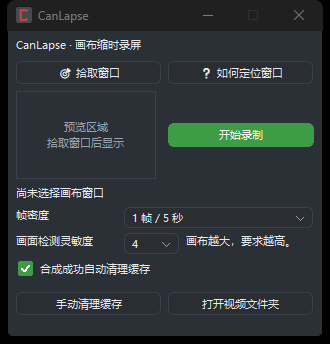
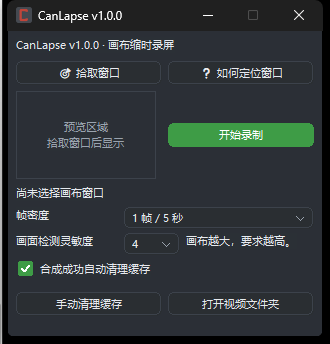
feat(ui): 程序名后带版本号（窗口标题 + 界面首行）
- 新增 app_title()：format!("CanLapse v{}", env!("CARGO_PKG_VERSION"))
- 窗口标题 CanLapse → CanLapse v1.0.0；界面首行 → CanLapse v1.0.0 · 画布缩时录屏
- 单实例激活时的兜底标题也用同一函数（否则第二次启动找不到窗口）

验证：窗口标题读取为 CanLapse v1.0.0；截图 docs/evidence/ui-main.png；
cargo test 31 项全过；release 打包 doctor 退出 0，SHA256 37BEF1F1…C6FE77F

diff --git a/src/ui/mod.rs b/src/ui/mod.rs
@@ -511,7 +511,7 @@ impl App {
         let f = self.font;
         let ws = WS_CHILD | WS_VISIBLE;
         let mut c = Ctl::default();
-        c.title = mk(h, "Static", "CanLapse · 画布缩时录屏", ws, 0, f);
+        c.title = mk(h, "Static", &format!("{} · 画布缩时录屏", app_title()), ws, 0, f);
         c.btn_pick = mk(h, "Button", "🎯 拾取窗口", ws, ID_PICK, f);
         c.btn_help = mk(h, "Button", "❓ 如何定位窗口", ws, ID_HELP, f);
         c.status = mk(h, "Static", "", ws, ID_STATUS, f);
@@ -1454,13 +1454,18 @@ fn looks_like_panel(info: &win::WindowInfo) -> bool {
     main_frame || ratio > 3.2 || ratio < 0.35
 }
 
+/// 窗口标题 / 界面标题统一用这个名字（带版本号）
+fn app_title() -> String {
+    format!("CanLapse v{}", env!("CARGO_PKG_VERSION"))
+}
+
 /// 把已经在运行的 CanLapse 主窗口叫到前台（第二个实例只做这件事）
 unsafe fn activate_existing() -> bool {
     let c = cls(MAIN_CLASS);
     // 先按类名找；个别系统上 FindWindow 的 title=NULL 不匹配，再退回按标题找
     let mut h = windows_sys::Win32::UI::WindowsAndMessaging::FindWindowW(c.as_ptr(), std::ptr::null());
     if h.is_null() {
-        let t = win::wide("CanLapse");
+        let t = win::wide(&app_title());
         h = windows_sys::Win32::UI::WindowsAndMessaging::FindWindowW(c.as_ptr(), t.as_ptr());
     }
     if h.is_null() {
@@ -1627,7 +1632,8 @@ pub fn run(initial_target: Option<isize>) -> i32 {
         }
 
         let c = cls(MAIN_CLASS);
-        let t = win::wide("CanLapse");
+        // 窗口标题带版本号（v1.0.0 增补需求）
+        let t = win::wide(&app_title());
         let hwnd = CreateWindowExW(
             0,
             c.as_ptr(),

diff --git a/完工日志.md b/完工日志.md
@@ -13,6 +13,7 @@
 | 2026-10-17 20:45 | **默认导出目录改到「程序所在目录\output」** | 启动时自动创建 `<exe 目录>\output`，输出框默认填 `<exe 目录>\output\timelapse.mp4`；程序目录不可写（如装在 Program Files）时自动退回 `%LOCALAPPDATA%\CanLapse\output`。文件名保持 `timelapse.mp4`（同目录重复导出会覆盖，可在输出框改名）。证据：`docs/evidence/ui-output-dir.png`。验证：debug 构建实跑，输出框显示 `<exe>\output\timelapse.mp4` 且目录被自动创建；`cargo test` 31 项全过；release 重新打包。 |
 | 2026-10-17 20:48 | **缓存目录改到「程序所在目录\cache」** | 优先级：`CANLAPSE_CACHE` > `<exe 目录>\cache` > `%LOCALAPPDATA%\CanLapse\cache`；程序目录不可写时自动退回；GUI 与 CLI 共用 `lib::default_cache_root()`。现在"数据跟着程序走"：`cache/` + `output/` 都在 exe 旁边。验证：清掉目录后启动 GUI，`<exe>\cache` 与 `<exe>\output` 都会在启动时创建；录制后帧写进 `<exe>\cache\<时间>_<进程名>\`。 |
 | 2026-10-17 21:15 | **应用图标定稿（灰底 + 方头红 C）** | 依据用户参考稿重画：底 `#454950` 圆角方、C `#C0453A`（外圆角 26 / 笔画 36 / 开口 104）；ICO 自行写盘（≤64 用 BMP、128/256 用 PNG），七档全部独立渲染，**修掉了"小尺寸被裁切"的问题**；接入 `CanLapse.ico` → `CanLapse.rc` → 注入 exe，并设为主窗口/任务栏图标。证据：`docs/evidence/icon-sizes.png`。验证：从 exe 提取图标为完整 C；`WM_GETICON` 返回非空；标题栏可见图标。 |
+| 2026-10-17 22:18 | **程序名后加版本号** | 窗口标题与界面首行都改为 `CanLapse v1.0.0`（取 `CARGO_PKG_VERSION`，发版改 Cargo.toml 即可）；单实例激活的兜底标题同步。证据：`docs/evidence/ui-main.png`。验证：窗口标题读取为 `CanLapse v1.0.0`，界面首行同步；cargo test 31 项全过。 |
 | 2026-10-17 22:10 | **去掉输出位置选择；底部改为【手动清理缓存】+【打开视频文件夹】** | 删除输出标签/路径框/【选择】按钮，输出固定 `<exe>\output\timelapse.mp4`；底部两个等宽按钮，右侧点击用资源管理器打开合成目录；窗口 366 → 344。同批把灵敏度说明改为「画布越大，要求越高。」证据：`docs/evidence/ui-main.png`。验证：cargo test 31 项全过；实拍布局符合。 |
 | 2026-10-17 21:55 | **合成进度改为独立弹窗（替代窗口内遮罩）** | 停止后立即恢复主窗并弹出"合成进度"小窗：视频合成中 / 进度条 % / 已处理 a / b 帧 / 取消合成；完成时标题变"合成完成"并显示帧数·体积·输出，**1.6s 后自动关闭**（去掉 MessageBox 的【确定】）；深色标题栏 + 同字体，居中并夹在工作区内，弹窗期间主窗禁用。证据：`docs/evidence/enc-dialog.png`。验证：停止→弹窗出现→0.2s 后合成结束→约 1.9s 自动消失；主窗 `IsIconic=false`；cargo test 31 项全过。 |
 | 2026-10-17 21:35 | **停止录制立即恢复窗口 + 合成进度遮罩** | 点【停止】后 200ms 内 `SW_RESTORE`（不再等录制线程 join）；合成期间隐藏全部子控件、整窗自绘「视频合成中 / 进度条 xx% / 已处理 a / b 帧 / 取消合成」，结束时 `ui_set_idle` → `relayout` 恢复。证据：`docs/evidence/enc-overlay.png`。验证：点击停止后 400ms 查询 `IsIconic=false`；遮罩排版实拍；cargo test 31 项全过。 |
@@ -23,7 +24,7 @@
 
 | 交付物 | 位置 | 说明 |
 |---|---|---|
-| 测试包 | [`dist/CanLapse-v1.0.0-win64.zip`](dist/CanLapse-v1.0.0-win64.zip) | 4.7 MB，解压即用；SHA256 `1A895471…AB6B4A`（每次重新打包会变） |
+| 测试包 | [`dist/CanLapse-v1.0.0-win64.zip`](dist/CanLapse-v1.0.0-win64.zip) | 4.7 MB，解压即用；SHA256 `37BEF1F1…C6FE77F`（每次重新打包会变） |
 | 主程序 | 包内 `CanLapse.exe` | 1.0.0.0，已注入图标/版本 |
 | 命令行 | 包内 `canlapse-cli.exe` | doctor / list / record / encode / sessions |
 | 运行库 | 包内 7 个 DLL | avcodec/avformat/avutil/swscale/swresample/libwinpthread/vcruntime140 |

diff --git a/CHANGELOG.md b/CHANGELOG.md
@@ -58,6 +58,12 @@
 
 ### 变更
 
+- **程序名后带版本号（v1.0.0 收工后增补）**
+  - 窗口标题：`CanLapse` → `CanLapse v1.0.0`（`env!("CARGO_PKG_VERSION")`，随 Cargo.toml 走，
+    单实例激活时的兜底标题也用同一个）；
+  - 界面首行标题：`CanLapse · 画布缩时录屏` → `CanLapse v1.0.0 · 画布缩时录屏`。
+
+
 - **去掉"选择输出位置"，底部改为两个按钮（v1.0.0 收工后增补）**
   - 删除「输出」标签 + 路径输入框 +【选择】按钮：输出位置固定为 `<exe 目录>\\output\\timelapse.mp4`，
     少一个能选错的地方；
